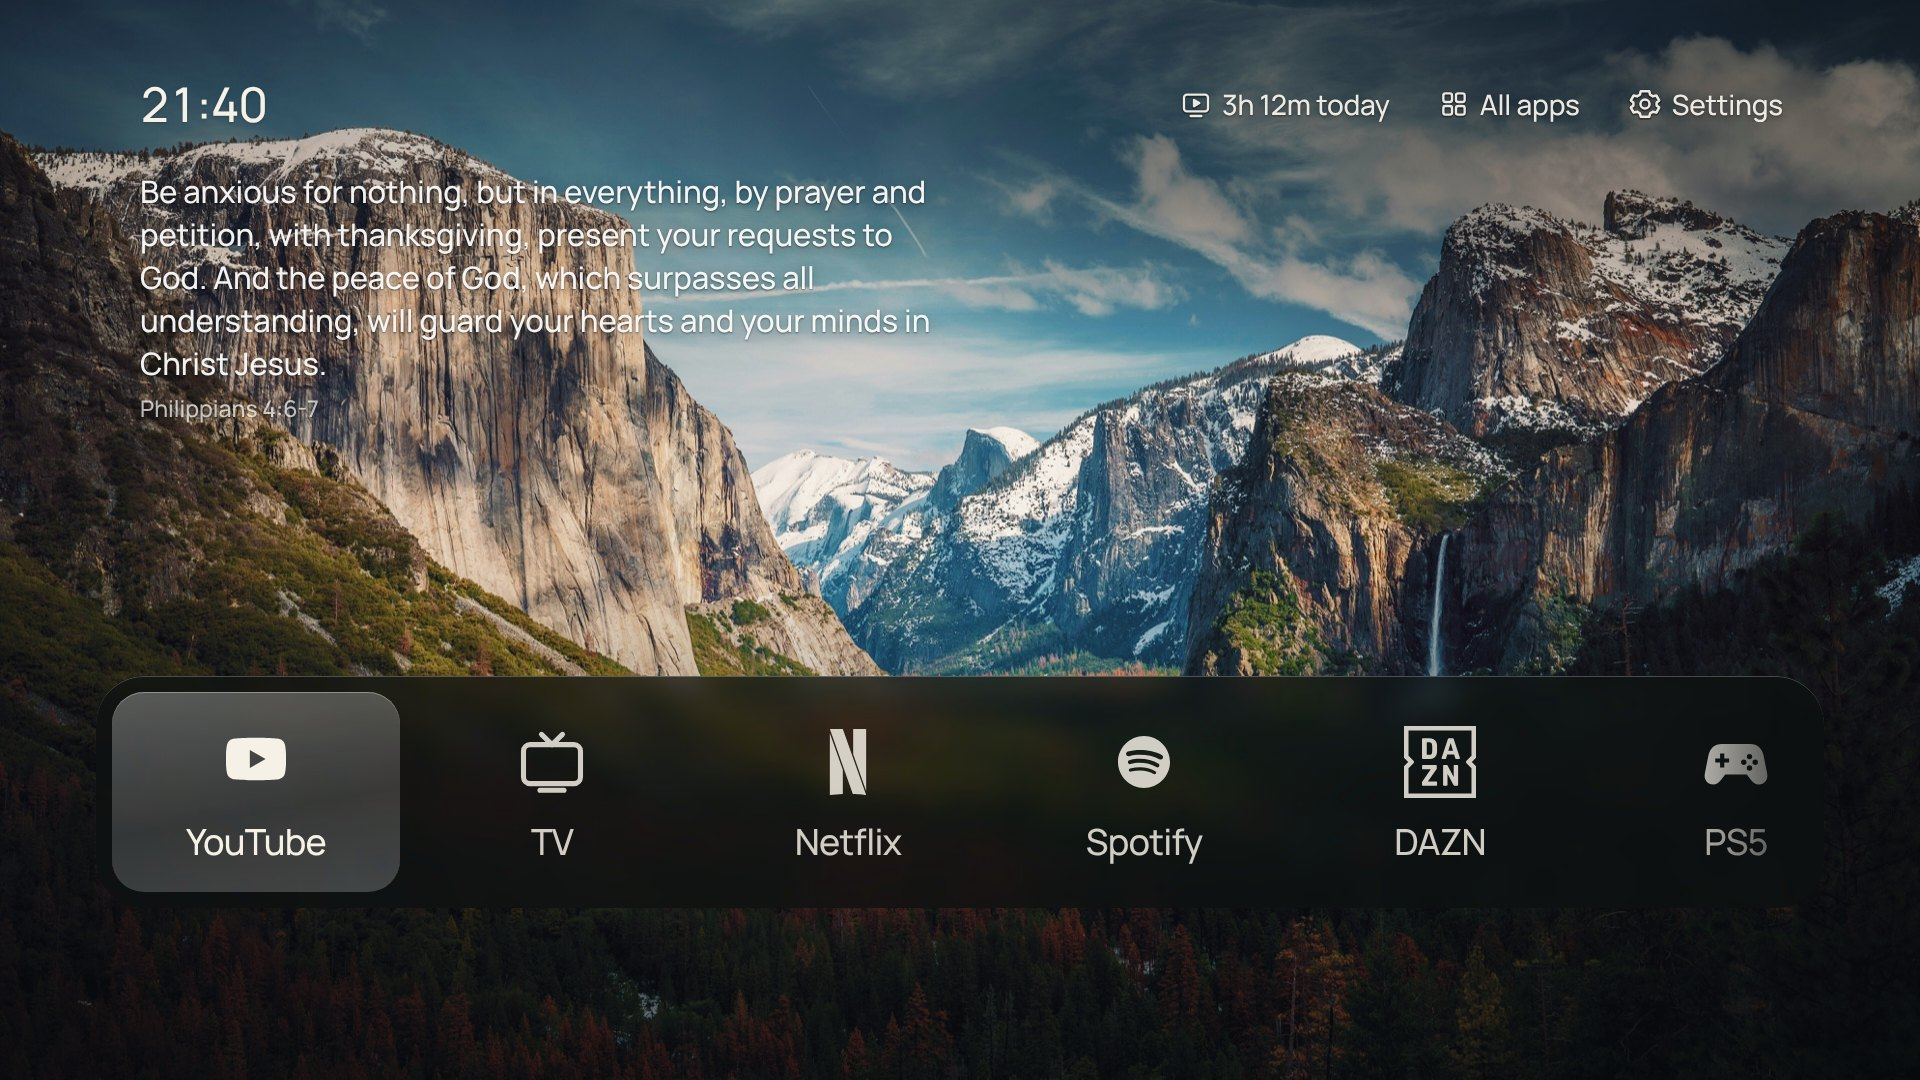
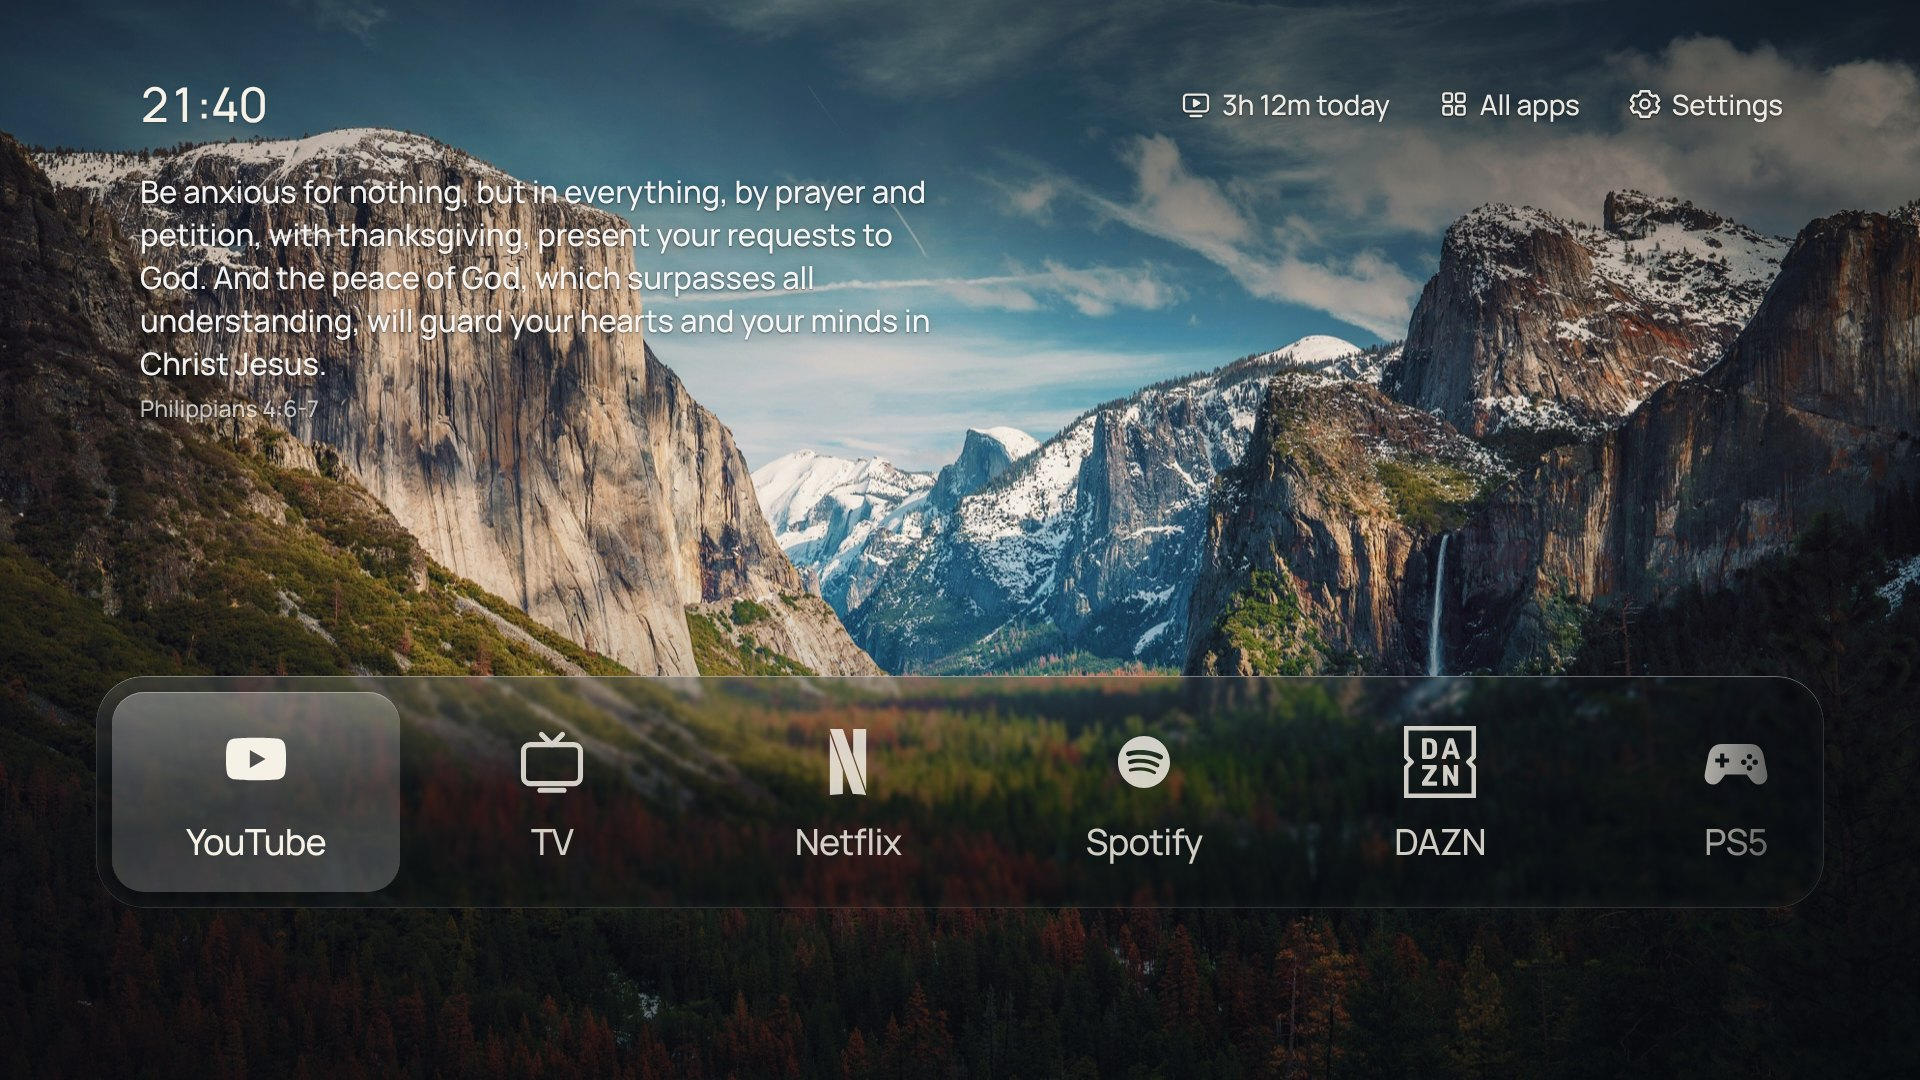
Screenshots with Glass focus and Clear tint; plain wording for the select button
Claude-Session: https://claude.ai/code/session_01TCnLAdKkhDLz8ZBVAkkdax

Changed region(s): [[0.0625, 0.6111, 0.7812, 0.7639], [0.0312, 0.6417, 0.0625, 0.6722]]

diff --git a/README.md b/README.md
@@ -54,13 +54,13 @@ Then I saw CleanFrame: one photo, a small clock, a frosted-glass dock and nothin
 
 1. **A dock with only my apps:** YouTube, live TV, Netflix, Spotify, a sports app, the PS5 and Twitch. The focused app's name sits under its mark.
 2. **The PS5 is an app.** Its tile switches the TV straight to HDMI 3. When the console turns on, the tile glows and the focus jumps to it.
-3. **Today's watch time** in the top-right controls. OK opens the split per app, with the PS5 counted separately from live TV.
+3. **Today's watch time** in the top-right controls. Selecting it opens the time per app, with the PS5 counted separately from live TV.
 4. **The Bible's verse of the day**, the same one as the YouVersion app, under the clock.
 5. **A matching screensaver.** The wallpapers crossfade every two minutes with the clock and the verse, which change sides so nothing burns in.
 6. **The TV's own click sounds** when the focus moves.
 7. **Debloat.** 14 promotion, demo and telemetry apps are disabled, with an undo for each.
 
-| PS5 turned on: the tile glows | OK on the watch time: today, per app |
+| PS5 turned on: the tile glows | Watch time selected: today, per app |
 |:---:|:---:|
 | ![The PS5 tile glowing in the dock](docs/screenshots/02-ps5-live.jpg) | ![Watched today: total and per-app bars](docs/screenshots/04-watch-panel.png) |
 
@@ -93,7 +93,7 @@ flowchart LR
 
 | Layer | Tool | Role |
 |---|---|---|
-| Home screen | `HomeActivity` (Java) | Registered for the `HOME` intent. Owns the WebView, the remote's OK and Back keys, and memory pressure |
+| Home screen | `HomeActivity` (Java) | Registered for the `HOME` intent. Owns the WebView, the remote's OK (select) and Back buttons, and memory pressure |
 | Interface | CleanFrame (HTML/CSS/JS) in a WebView | Served from the APK's assets through an intercepted origin, so the page never touches the network |
 | App config | `web/apps.js` | The dock, which installed app shows as each entry, and what counts as watching. One file, read by both sides |
 | TV access | `Bridge.java` (`window.AndroidTV`) | Installed apps and icons, launching apps, HDMI passthrough and live TV, HDMI signal states, sounds |
@@ -130,10 +130,10 @@ flowchart LR
 **Why:** Android deletes the networks an app created when that app is disabled. The check is Free My TV's rule. Everything I disabled is promotional, a demo, telemetry or unused: Samba TV (which analyses what's on screen for advertising), Sony's promos and demos, help content and unused Google apps.
 **Trade-off:** the list is specific to this Sony. It isn't a general debloat script.
 
-### 5. OK acts when the button is released, and only if it was pressed here
+### 5. The select button acts when it's released, and only if it was pressed here
 
-**Decision:** OK and Back act on key-up, and only if the key-down also happened in the launcher.
-**Why:** acting on key-down opened YouTube with the button still held. The app received the release as its own click and started playing the first video on its home page. Android buttons fire on release, and Free My TV handles it the same way.
+**Decision:** OK (the remote's select button, in the middle of the arrows) and Back act when the button is released, and only if it was also pressed in the launcher.
+**Why:** acting on the press opened YouTube with the button still held down. The app received the release as its own click and started playing the first video on its home page. Android buttons fire on release, and Free My TV handles it the same way.
 
 ### 6. HDMI inputs as first-class apps
 

diff --git a/docs/operations.md b/docs/operations.md
@@ -58,7 +58,7 @@ Screensaver: on the TV, *Settings → Device Preferences → Screen saver → Wa
 
 ## Watch time
 
-The first of the top-right controls ("3h 12m today"; OK opens the split per app). It reads Android's own usage log, which needs a one-time permission:
+The first of the top-right controls ("3h 12m today"; selecting it opens the time per app). It reads Android's own usage log, which needs a one-time permission:
 
 ```
 adb shell appops set pt.inicio.launcher GET_USAGE_STATS allow     # on
